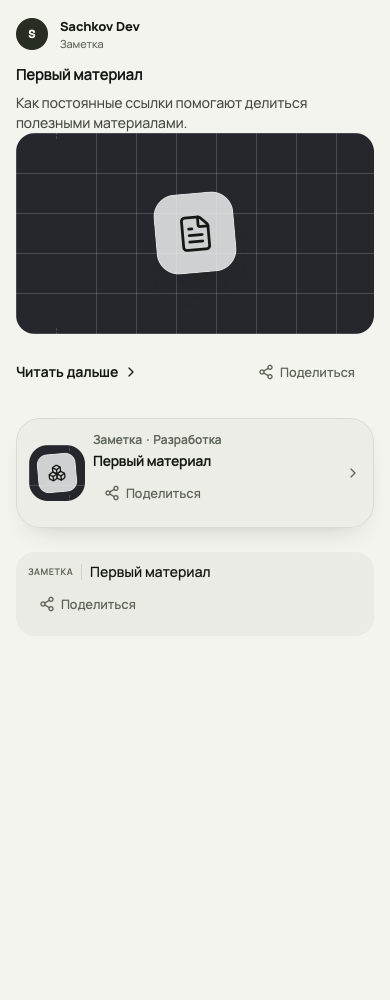
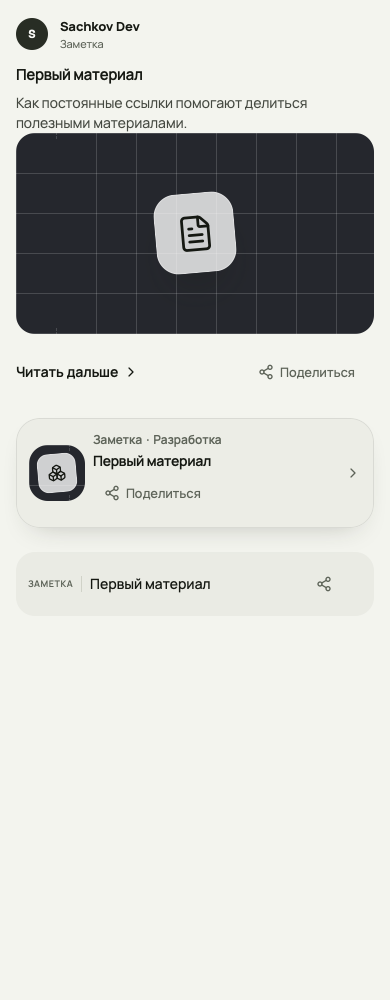
fix(materials): keep sharing within compact programme rows

Changed region(s): [[0.0615, 0.558, 0.5538, 0.62], [0.8308, 0.558, 0.8615, 0.589]]

diff --git a/apps/web/src/entities/material/ui/material-share-button.client.tsx b/apps/web/src/entities/material/ui/material-share-button.client.tsx
@@ -3,6 +3,7 @@
 import { Share2 } from "lucide-react";
 import { useId, useState } from "react";
 
+import { cn } from "@/shared/lib/utils";
 import { materialPath } from "@/shared/routing/public-page-path";
 import { Button } from "@/shared/ui/button";
 
@@ -13,10 +14,15 @@ import { Button } from "@/shared/ui/button";
 export interface MaterialShareButtonProps {
   readonly slug: string;
   readonly title: string;
+  readonly compact?: boolean;
 }
 
 /** Shares only the canonical material address, never the reader's private route context. */
-export function MaterialShareButton({ slug, title }: MaterialShareButtonProps) {
+export function MaterialShareButton({
+  slug,
+  title,
+  compact = false,
+}: MaterialShareButtonProps) {
   const fieldId = useId();
   const [pending, setPending] = useState(false);
   const [result, setResult] = useState<{
@@ -54,18 +60,26 @@ export function MaterialShareButton({ slug, title }: MaterialShareButtonProps) {
   }
 
   return (
-    <div className="relative z-10 flex min-w-0 flex-wrap items-center gap-x-2 gap-y-1">
+    <div
+      className={cn(
+        "relative z-10 flex min-w-0 flex-wrap items-center gap-x-2 gap-y-1",
+        compact && (current === null ? "shrink-0" : "basis-full"),
+      )}
+    >
       <Button
         type="button"
         variant="ghost"
         size="sm"
-        className="min-h-11 gap-1.5 text-muted-foreground"
+        className={cn(
+          "min-h-11 gap-1.5 text-muted-foreground",
+          compact && "min-w-11 px-2",
+        )}
         disabled={pending}
         aria-label={`Поделиться материалом «${title}»`}
         onClick={() => void share()}
       >
         <Share2 aria-hidden="true" className="size-4 shrink-0" />
-        Поделиться
+        <span className={compact ? "sr-only" : undefined}>Поделиться</span>
       </Button>
       <span aria-live="polite" className="text-xs text-muted-foreground">
         {current === null

diff --git a/apps/web/src/entities/material/ui/material-card.tsx b/apps/web/src/entities/material/ui/material-card.tsx
@@ -390,7 +390,7 @@ function SeriesMaterialRow({
     >
       {/* Строка в одну линию: номер, тип словом, название, статус. Открытость показывает замок у
           закрытых уроков, метки «Бесплатно» нет (решение владельца 09.10.2026). */}
-      <div className="flex min-w-0 items-center gap-2 sm:gap-3">
+      <div className="flex min-w-0 flex-wrap items-center gap-2 sm:gap-3">
         {ordinal === undefined ? null : (
           <span
             aria-hidden="true"
@@ -423,6 +423,11 @@ function SeriesMaterialRow({
             </IntentPrefetchLink>
           </Heading>
         </div>
+        <MaterialShareButton
+          compact
+          slug={material.slug}
+          title={material.title}
+        />
         <span className="flex shrink-0 items-center gap-2 text-xs text-muted-foreground">
           {duration === undefined ? null : (
             <span className="tabular-nums max-sm:hidden" data-series-duration>
@@ -447,7 +452,6 @@ function SeriesMaterialRow({
           )}
         </span>
       </div>
-      <MaterialShareButton slug={material.slug} title={material.title} />
       <SeriesContinuationAction href={readerHref} slug={material.slug} />
     </SeriesRowArticle>
   );

diff --git a/apps/web/src/entities/material/ui/material-share-button.stories.tsx b/apps/web/src/entities/material/ui/material-share-button.stories.tsx
@@ -149,3 +149,9 @@ export const CardsMobile: Story = {
   ...Cards,
   globals: { viewport: { value: "mobile390", isRotated: false } },
 };
+
+export const CompactManualCopy: Story = {
+  ...ManualCopy,
+  render: () => <MaterialCard material={material} variant="series" />,
+  globals: { viewport: { value: "mobile320", isRotated: false } },
+};

diff --git a/docs/evidence/issue-1553/README.md b/docs/evidence/issue-1553/README.md
@@ -1,12 +1,12 @@
 # Кнопка «Поделиться» — #1553
 
-Production-owned `MaterialShareButton` используется карточками `feed`, `row`, `series` и шапкой Reader, включая закрытый teaser. Снимки сделаны из настоящих компонентов в Storybook на 1440 и 390 px; горизонтального переполнения нет. Оба снимка просмотрены.
+Production-owned `MaterialShareButton` используется карточками `feed`, `row`, `series` и шапкой Reader, включая закрытый teaser. Снимки сделаны из настоящих компонентов в Storybook на 1440 и 390 px; горизонтального переполнения нет. Снимки просмотрены.
 
 - [Карточки, desktop](share-cards-1440.png)
 - [Карточки, mobile](share-cards-390.png)
 - [Ручное копирование, mobile](share-manual-390.png)
 
-В браузере WebKit выполнены play-сценарии CopyLink, NativeMenu, CancelMenu, ManualCopy и NativeUnavailable: постоянный URL, отмена без копирования и выделение ручного адреса. Нативный share подменён; реальные сообщения не отправлялись. Проверка axe WCAG 2 A/AA и 2.1 AA карточек и Reader на 1440/390 px: 0 нарушений, без горизонтального переполнения. Desktop-story Reader при принудительной ширине 390 px ожидаемо имеет desktop-only assertion о размере заголовка; для подтверждения мобильного Reader открыта его отдельная Mobile-story.
+В браузере WebKit выполнены play-сценарии CopyLink, NativeMenu, CancelMenu, ManualCopy и NativeUnavailable: постоянный URL, отмена без копирования и выделение ручного адреса. Нативный share подменён; реальные сообщения не отправлялись. Проверка axe WCAG 2 A/AA и 2.1 AA карточек и Reader на 1440/390 px: 0 нарушений, без горизонтального переполнения. Для Reader использованы соответствующие Desktop/Mobile stories. Проверены четыре существующих Home LoadsInPlace сценария. CI обнаружил смещение названия на22px в DesktopRouteDetails; компактный share внутри строки устранил смещение, исходный play прошёл в браузере. CompactManualCopy проверен на320px, включая200% текста без переполнения.
 
 Локальный MCP test-run имеет известный сбой «No test suite found» в кириллическом worktree (#1551). Он не считается успешным тестом и не заменяет provider Storybook CI. Production navigation tests проверяют системный share и ручной адрес на реальных маршрутах; их результат записывается в PR.
 
